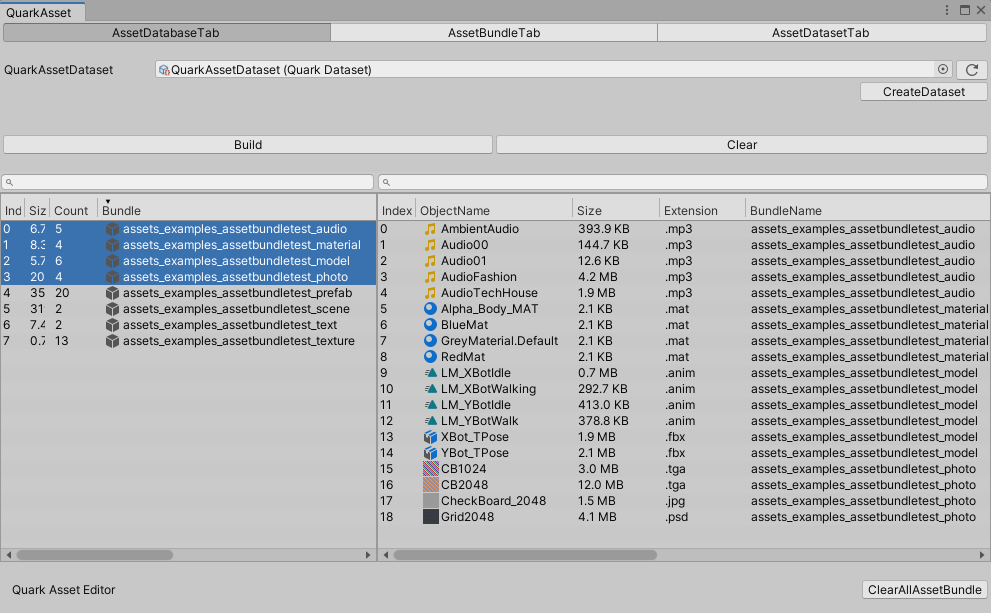
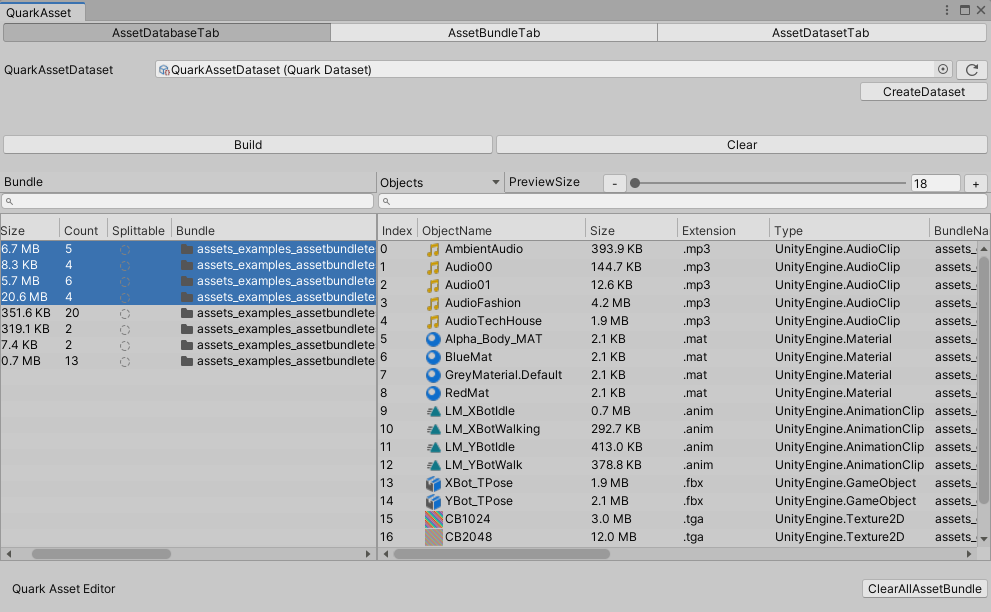
Update: 更新md文档

Changed region(s): [[0.0, 0.2794, 1.0, 0.9314], [0.7265, 0.2173, 0.7568, 0.2484], [0.0, 0.9003, 0.0303, 0.9314]]

diff --git a/README.md b/README.md
@@ -17,6 +17,9 @@ QuarkAsset是一套轻量级的插件化Unity资源加载方案。 内置AssetDa
   - [QuarkEditor编辑器](#quarkeditor编辑器)
     - [AssetDatabaseTab](#assetdatabasetab)
       - [设置AssetBundle](#设置assetbundle)
+      - [查看AssetBundle中的资源](#查看assetbundle中的资源)
+      - [查看AssetBundle依赖](#查看assetbundle依赖)
+      - [拆分AssetBundle](#拆分assetbundle)
     - [AssetBundleTab](#assetbundletab)
     - [AssetDatasetTab](#assetdatasettab)
   - [QuarkRuntime入口-QuarkConfig](#quarkruntime入口-quarkconfig)
@@ -81,6 +84,30 @@ QuarkAsset是一套轻量级的插件化Unity资源加载方案。 内置AssetDa
 #### 设置AssetBundle
 
 * 将需要被打包为ab的文件夹或资源拖拽入bundle label窗口，被拖入的资源会自动生成ab名称。点击上方Build按钮，完成dataset资源识别。
+  
+<a name="查看AssetBundle中的资源"></a>
+
+#### 查看AssetBundle中的资源
+![Quark_AssetDatabaseTab_Preview](Docs/Images/Quark_AssetDatabaseTab_Preview.png)
+
+* 选中需要查看的bundle，在右侧label中可缩放查看缩略图信息。
+
+<a name="查看AssetBundle依赖"></a>
+
+#### 查看AssetBundle依赖
+![Quark_AssetDatabaseTab_Dependent](Docs/Images/Quark_AssetDatabaseTab_Dependent.png)
+
+* 如图所示，选择显示区类别，可查看bundle的依赖关系以及subbundle信息。
+
+<a name="拆分AssetBundle"></a>
+
+#### 拆分AssetBundle
+![Quark_AssetDatabaseTab_SplitBundle](Docs/Images/Quark_AssetDatabaseTab_SplitBundle.png)
+
+* 选择bundle，点击右键显示菜单，点击"Mark as splittable"选项，被选中的bundle会被标记为可分割的bundle，点击"Build"按钮，刷新信息。
+  
+* 分割bundle的逻辑为，若bundle存在子文件夹，则第一级的子文件夹被标记为新的bundle，在构建bundle时会生成新的bundle，同时父级bundle则不会再构建。
+
 
 <a name="QuarkEditor-AssetBundleTab"></a>
 
